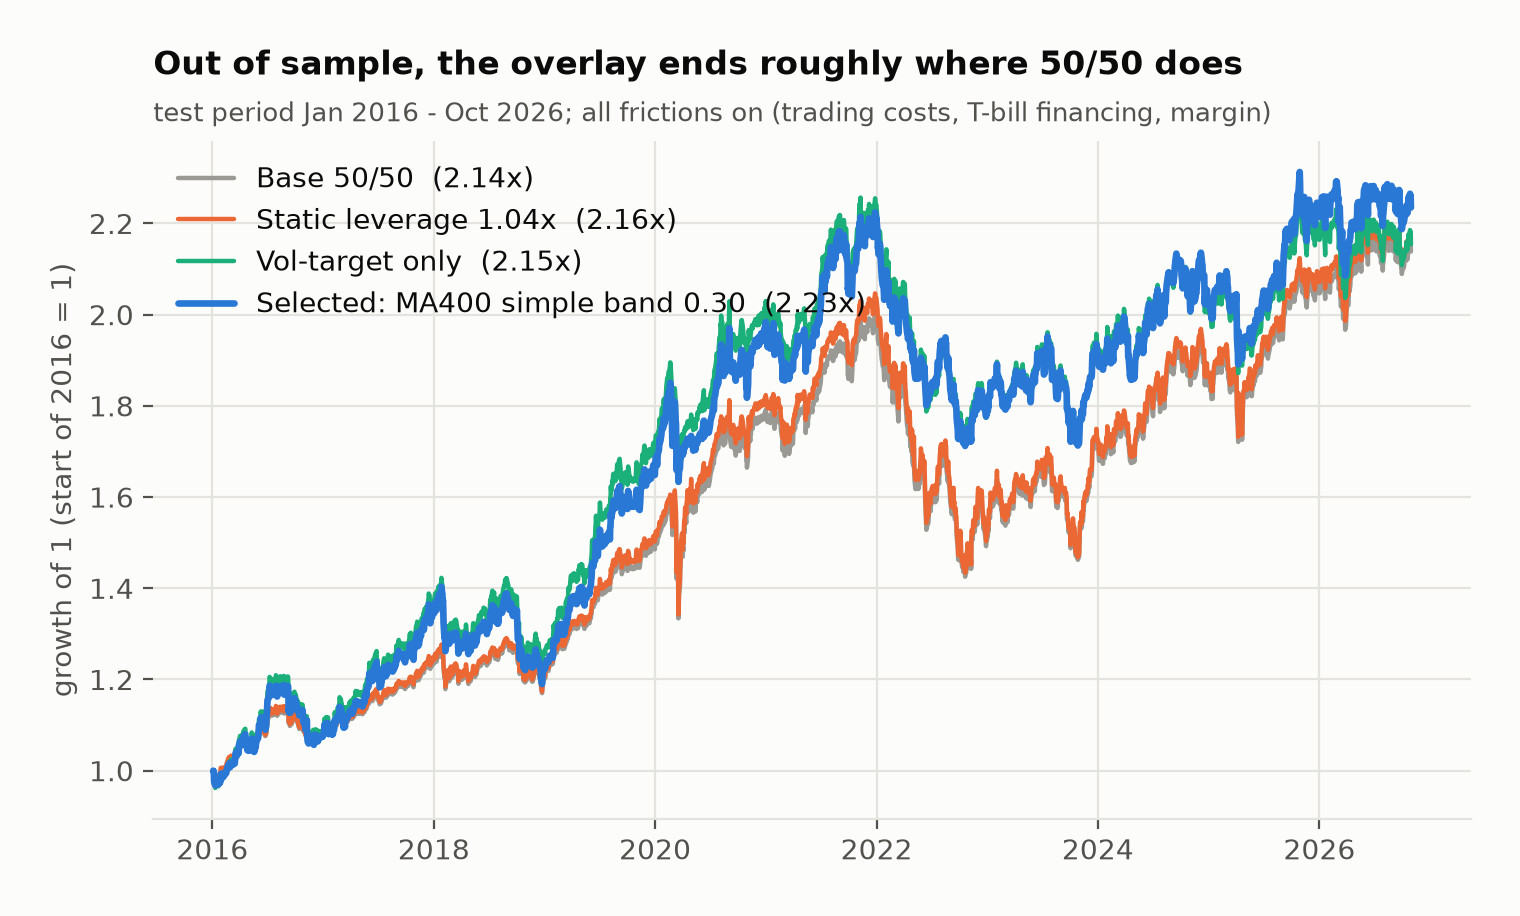
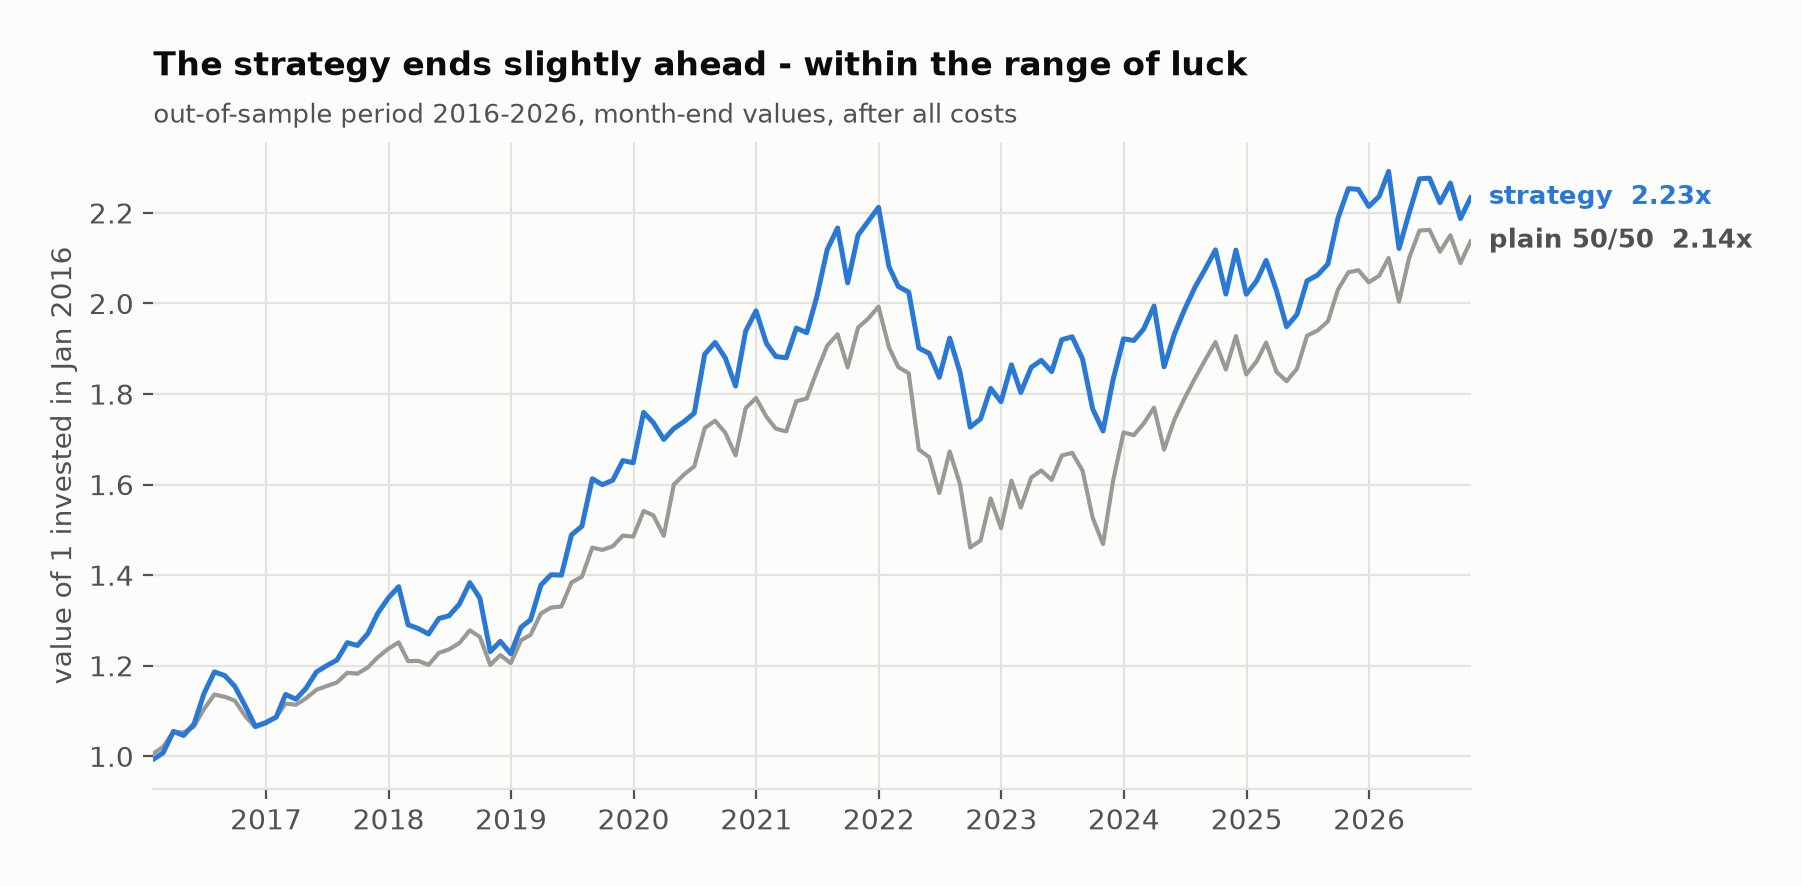
Simpler, thinner charts: month-end equity, direct labels, fewer series

diff --git a/src/voltarget/figures.py b/src/voltarget/figures.py
@@ -21,7 +21,7 @@ plt.rcParams.update({
     "axes.edgecolor": GRID, "axes.labelcolor": INK2, "xtick.color": INK2, "ytick.color": INK2,
     "text.color": INK, "axes.grid": True, "grid.color": GRID, "grid.linewidth": 0.8,
     "axes.spines.top": False, "axes.spines.right": False, "axes.spines.left": False,
-    "lines.linewidth": 2, "lines.solid_capstyle": "round", "font.size": 10,
+    "lines.linewidth": 1.5, "lines.solid_capstyle": "round", "font.size": 10,
     "axes.titlesize": 12, "axes.titleweight": "bold", "axes.titlelocation": "left",
     "legend.frameon": False, "savefig.dpi": 200,
 })
@@ -51,18 +51,30 @@ def _names(eq):
     return base, static, "Vol-target only", sel
 
 
+def _label_ends(ax, items, min_gap):
+    """items: [(y, text, color)] -> text right of the last point, nudged apart so labels never touch."""
+    items = sorted(items)
+    ys = [y for y, _, _ in items]
+    for i in range(1, len(ys)):
+        ys[i] = max(ys[i], ys[i - 1] + min_gap)
+    x = ax.get_xlim()[1]
+    for (y, text, col), yl in zip(items, ys):
+        ax.text(x, yl, "  " + text, color=col, fontsize=9.5, va="center", fontweight="bold")
+
+
 def fig_equity(eq):
     e = eq.loc[config.TEST_START:]
-    e = e / e.iloc[0]
-    base, static, vt, sel = _names(eq)
-    fig, ax = plt.subplots(figsize=(8.5, 4.4))
-    for name, col in ((base, GRAY), (static, CAT[1]), (vt, CAT[2]), (sel, CAT[0])):
-        ax.plot(e.index, e[name], color=col, label=f"{name}  ({e[name].iloc[-1]:.2f}x)",
-                lw=2.4 if name == sel else 1.6)
-    ax.set_ylabel("growth of 1 (start of 2016 = 1)")
-    ax.legend(loc="upper left")
-    _title(ax, "Out of sample, the overlay ends roughly where 50/50 does",
-           "test period Jan 2016 - Oct 2026; all frictions on (trading costs, T-bill financing, margin)")
+    e = (e / e.iloc[0]).resample("ME").last()            # month-end: readable, no daily fuzz
+    base, _, _, sel = _names(eq)
+    fig, ax = plt.subplots(figsize=(8.5, 4.2))
+    ax.plot(e.index, e[base], color=GRAY, lw=1.5)
+    ax.plot(e.index, e[sel], color=CAT[0], lw=1.8)
+    ax.set_xlim(e.index[0], e.index[-1])
+    _label_ends(ax, [(e[base].iloc[-1], f"plain 50/50  {e[base].iloc[-1]:.2f}x", INK2),
+                     (e[sel].iloc[-1], f"strategy  {e[sel].iloc[-1]:.2f}x", CAT[0])], 0.07)
+    ax.set_ylabel("value of 1 invested in Jan 2016")
+    _title(ax, "The strategy ends slightly ahead - within the range of luck",
+           "out-of-sample period 2016-2026, month-end values, after all costs")
     _save(fig, "1_equity_test.png")
 
 
@@ -70,39 +82,40 @@ def fig_drawdown(eq):
     e = eq.loc[config.TEST_START:]
     base, _, _, sel = _names(eq)
     fig, ax = plt.subplots(figsize=(8.5, 3.6))
-    for name, col in ((base, GRAY), (sel, CAT[0])):
-        dd = e[name] / e[name].cummax() - 1
-        ax.plot(dd.index, dd * 100, color=col, label=name)
-        i = dd.idxmin()
-        ax.annotate(f"{dd.min():.0%}", (i, dd.min() * 100), xytext=(6, -2), textcoords="offset points",
-                    color=INK2, fontsize=9, va="top")
-    ax.set_ylabel("drawdown from peak (%)")
-    ax.legend(loc="lower left")
-    _title(ax, "What it does buy: shallower drawdowns",
-           "test period; 2022 was the stock-bond crash where 50/50 had no hiding place")
+    db = (e[base] / e[base].cummax() - 1).resample("W").min() * 100
+    ds = (e[sel] / e[sel].cummax() - 1).resample("W").min() * 100
+    ax.fill_between(db.index, db, 0, color=GRAY, alpha=0.25, lw=0)
+    ax.plot(db.index, db, color=GRAY, lw=1)
+    ax.plot(ds.index, ds, color=CAT[0], lw=1.4)
+    for d, col in ((db, GRAY), (ds, CAT[0])):
+        ax.plot(d.idxmin(), d.min(), "o", ms=6, color=col, mec=SURFACE, mew=1.5, zorder=4)
+    x0 = db.index[int(len(db) * 0.03)]
+    ax.text(x0, -21, f"plain 50/50: worst {db.min():.0f}%", color=INK2, fontsize=9.5, fontweight="bold")
+    ax.text(x0, -24.5, f"strategy: worst {ds.min():.0f}%", color=CAT[0], fontsize=9.5, fontweight="bold")
+    ax.set_xlim(db.index[0], db.index[-1])
+    ax.set_ylabel("loss from previous peak (%)")
+    _title(ax, "The benefit is smaller losses, mostly in 2022",
+           "out-of-sample period; grey area = plain 50/50, blue line = strategy")
     _save(fig, "2_drawdown_test.png")
 
 
 def fig_ladder(ladder, comp):
-    lad = ladder.pivot(index="strategy", columns="period", values="Sharpe")
-    base = comp[comp.strategy.str.startswith("Base")].set_index("period").Sharpe
-    steps = list(lad.index)
-    fig, ax = plt.subplots(figsize=(8.5, 4))
+    lad = ladder.pivot(index="strategy", columns="period", values="Sharpe")["test"]
+    base = comp[(comp.strategy.str.startswith("Base")) & (comp.period == "test")].Sharpe.iloc[0]
+    steps = [s.split("  ", 1)[1].replace(" (", "\n(") for s in lad.index]
+    fig, ax = plt.subplots(figsize=(8, 3.8))
     x = np.arange(len(steps))
-    w = 0.34
-    for i, (p, col) in enumerate((("train", CAT[0]), ("test", CAT[1]))):
-        xs = x + (i - 0.5) * w
-        ax.bar(xs, lad[p], width=w - 0.04, color=col, label=f"vol-target, {p}", zorder=2)
-        for xx, v in zip(xs, lad[p]):
-            ax.text(xx, v + 0.015, f"{v:.2f}", ha="center", fontsize=8.5, color=INK2)
-        ax.axhline(base[p], color=col, lw=1, ls=(0, (1, 0)), alpha=0.6, zorder=1)
-        ax.text(len(steps) - 0.45, base[p], f"50/50 {p}: {base[p]:.2f}", va="center", fontsize=8.5, color=INK2)
-    ax.set_xticks(x, [s.split("  ", 1)[1].replace(" (", "\n(") for s in steps])
-    ax.set_ylabel("Sharpe ratio (excess of T-bills)")
-    ax.set_xlim(-0.6, len(steps) + 0.5)
-    ax.legend(loc="upper right", bbox_to_anchor=(0.86, 1))
-    _title(ax, "Frictions eat the whole vol-targeting advantage",
-           "each bar adds one friction to the previous one; thin lines = plain 50/50 for comparison")
+    ax.bar(x, lad.values, width=0.42, color=CAT[0], zorder=2)
+    for xx, v in zip(x, lad.values):
+        ax.text(xx, v - 0.025, f"{v:.2f}", ha="center", va="top", fontsize=10.5, color="white", fontweight="bold", zorder=4)
+    ax.axhline(base, color=INK2, lw=1, zorder=3)
+    ax.set_xlim(-0.5, len(steps) - 0.5 + 0.9)
+    ax.text(len(steps) - 0.5 + 0.05, base, f"plain 50/50\n{base:.2f}", ha="left", va="center", fontsize=9.5, color=INK2)
+    ax.set_xticks(x, steps)
+    ax.set_ylim(0, max(lad.max(), base) * 1.18)
+    ax.set_ylabel("Sharpe ratio, 2016-2026")
+    _title(ax, "Costs eat the whole vol-targeting advantage",
+           "vol targeting, adding one real-world cost at a time (left to right)")
     _save(fig, "3_realism_ladder.png")
 
 
@@ -133,13 +146,12 @@ def fig_band(abl, sweep, comp):
     fig, ax = plt.subplots(figsize=(8.5, 3.8))
     ax.axhline(base_test, color=INK2, lw=1)
     ax.text(0.3, base_test + 0.002, "plain 50/50", color=INK2, fontsize=9, va="bottom", ha="right")
-    ax.plot(a.index, a, color=CAT[0], marker="o", ms=5, mec=SURFACE, mew=1.5, label="vol-target, no MA cap")
-    ax.plot(m.index, m, color=CAT[1], marker="o", ms=5, mec=SURFACE, mew=1.5,
-            label="with MA cap (average of 6 MA/gate variants)")
+    ax.plot(a.index, a, color=CAT[0], marker="o", ms=4, lw=1.4, label="without trend filter")
+    ax.plot(m.index, m, color=CAT[1], marker="o", ms=4, lw=1.4, label="with trend filter (average of 6 variants)")
     ax.set_xlabel("no-trade band (trade only if leverage drifts this far from target)")
     ax.set_ylabel("test Sharpe")
-    ax.legend(loc="lower right")
-    _title(ax, "Trading less helps a little; the MA regime cap doesn't help",
+    ax.legend(loc="upper left")
+    _title(ax, "Trading less helps a little; the trend filter doesn't help",
            "test period, post hoc ablation (not used to pick the strategy); the zigzag is noise")
     _save(fig, "5_band_ablation.png")
 
